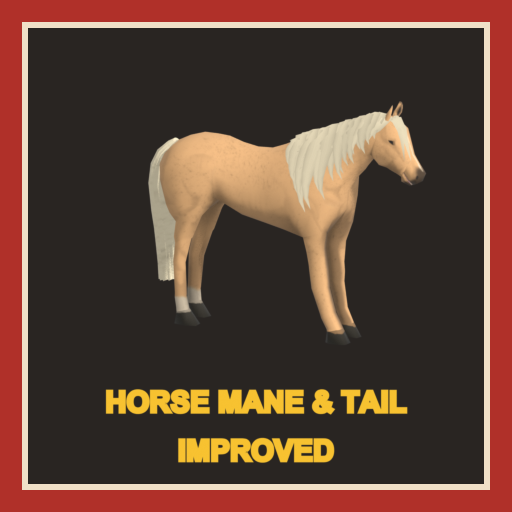
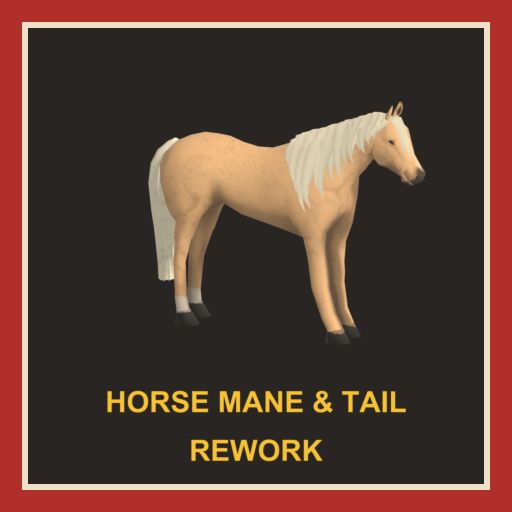
preview and workshop txt

Changed region(s): [[0.1875, 0.75, 0.8125, 0.8125], [0.3438, 0.8438, 0.6562, 0.9062]]

diff --git a/blender/poster.py b/blender/poster.py
@@ -16,7 +16,7 @@ import preview  # noqa: E402
 MOD_DIR = os.path.join(PROJECT, "Contents", "mods", "PZHorseManeAndTailImproved", "42")
 WORK = os.path.join(os.path.dirname(os.path.abspath(__file__)), "_work")
 FONT = r"C:\Windows\Fonts\arialbd.ttf"
-TITLE = ["HORSE MANE & TAIL", "IMPROVED"]
+TITLE = ["HORSE MANE & TAIL", "REWORK"]
 
 FRAME = (0.69, 0.19, 0.16)
 EDGE = (0.94, 0.88, 0.78)
@@ -80,7 +80,7 @@ def text_layer(size):
         cu.font = font
         cu.align_x = "CENTER"
         cu.size = 0.082
-        cu.offset = 0.003  # slight bold outline
+        cu.offset = 0.0
         cu.materials.append(mat)
         obj = bpy.data.objects.new(f"t{i}", cu)
         obj.location = (0, -0.305 - 0.095 * i, 0)

diff --git a/README.md b/README.md
@@ -1,4 +1,4 @@
-# Horse Mane & Tail improved
+# Horse Mane & Tail Rework
 
 Project Zomboid (Build 42) add-on for the [Horse mod](https://steamcommunity.com/sharedfiles/filedetails/?id=3661336777) that gives adult horses a new mane and tail.
 
